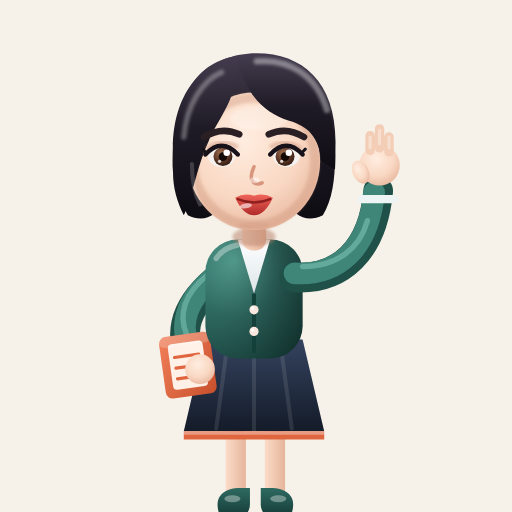
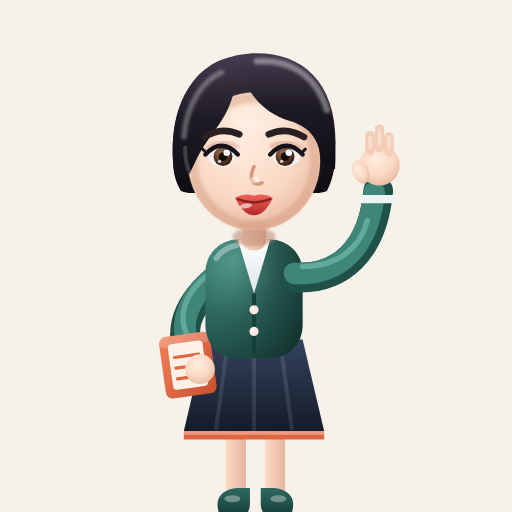
선생님 머리 길이를 귀 아래까지로 더 짧게 조정, 아이콘 갱신
Claude-Session: https://claude.ai/code/session_01GFiG5geJu7jjXnYb4pYTSP

diff --git a/index.html b/index.html
@@ -280,15 +280,15 @@ button.tile{border:0;width:100%;font-family:var(--f-label);cursor:pointer}
       <rect x="111" y="162" width="18" height="22" rx="8" fill="url(#mLimb)"/>
       <ellipse cx="120" cy="174" rx="16" ry="7" fill="#B77E66" opacity=".5" filter="url(#mBlurS)"/>
       <!-- hair & face -->
-      <g class="tail"><path d="M60 114C58 62 88 38 122 38c36 0 62 24 58 76 0 18-2 32-9 44-12 6-22 0-26-10H97c-4 10-14 16-26 10-7-12-11-26-11-44z" fill="url(#mHair)"/></g>
+      <g class="tail"><path d="M60 114C58 62 88 38 122 38c36 0 62 24 58 76 0 10-2 18-6 26-10 4-18 0-22-8H88c-4 8-12 12-22 8-4-8-6-16-6-26z" fill="url(#mHair)"/></g>
       <ellipse cx="120" cy="118" rx="49" ry="51" fill="url(#mSkin)"/>
       <ellipse cx="120" cy="118" rx="45" ry="47" fill="none" stroke="#C98E76" stroke-opacity=".35" stroke-width="7" filter="url(#mBlurS)"/>
       <ellipse cx="124" cy="86" rx="22" ry="9" fill="#fff" opacity=".28" filter="url(#mBlurS)"/>
       <path d="M108 40C152 34 184 62 180 124l-10-6c-2-18-10-26-24-30-20-6-34-22-38-48z" fill="url(#mHair)"/>
-      <path d="M108 40C74 44 58 78 60 126c0 12 3 22 8 32 6-12 9-34 18-54 8-20 22-30 22-64z" fill="url(#mHair)"/>
+      <path d="M108 40C74 44 58 78 60 118c0 8 2 16 6 22 6-10 10-24 20-38 8-12 22-24 22-62z" fill="url(#mHair)"/>
       <path d="M122 44C146 42 166 54 174 80" stroke="#fff" stroke-opacity=".38" stroke-width="4.5" stroke-linecap="round" fill="none" filter="url(#mBlurS)"/>
       <path d="M96 52C82 58 70 76 68 100" stroke="#fff" stroke-opacity=".3" stroke-width="4" stroke-linecap="round" fill="none" filter="url(#mBlurS)"/>
-      <path d="M74 120c0 12 2 22 6 30" stroke="#fff" stroke-opacity=".18" stroke-width="3" stroke-linecap="round" fill="none"/>
+      <path d="M69 108c0 8 1 14 4 20" stroke="#fff" stroke-opacity=".18" stroke-width="3" stroke-linecap="round" fill="none"/>
       <path d="M83 100q13-8 26-2M131 98q13-6 26 2" stroke="#2A2024" stroke-width="5" stroke-linecap="round" fill="none"/>
       <path d="M86 108q10-7 21-1M133 107q10-6 21 1" stroke="#C98E76" stroke-opacity=".5" stroke-width="3" stroke-linecap="round" fill="none" filter="url(#mBlurS)"/>
       <ellipse cx="96" cy="114" rx="10" ry="8.2" fill="#F5F1EE"/><ellipse cx="144" cy="114" rx="10" ry="8.2" fill="#F5F1EE"/>
